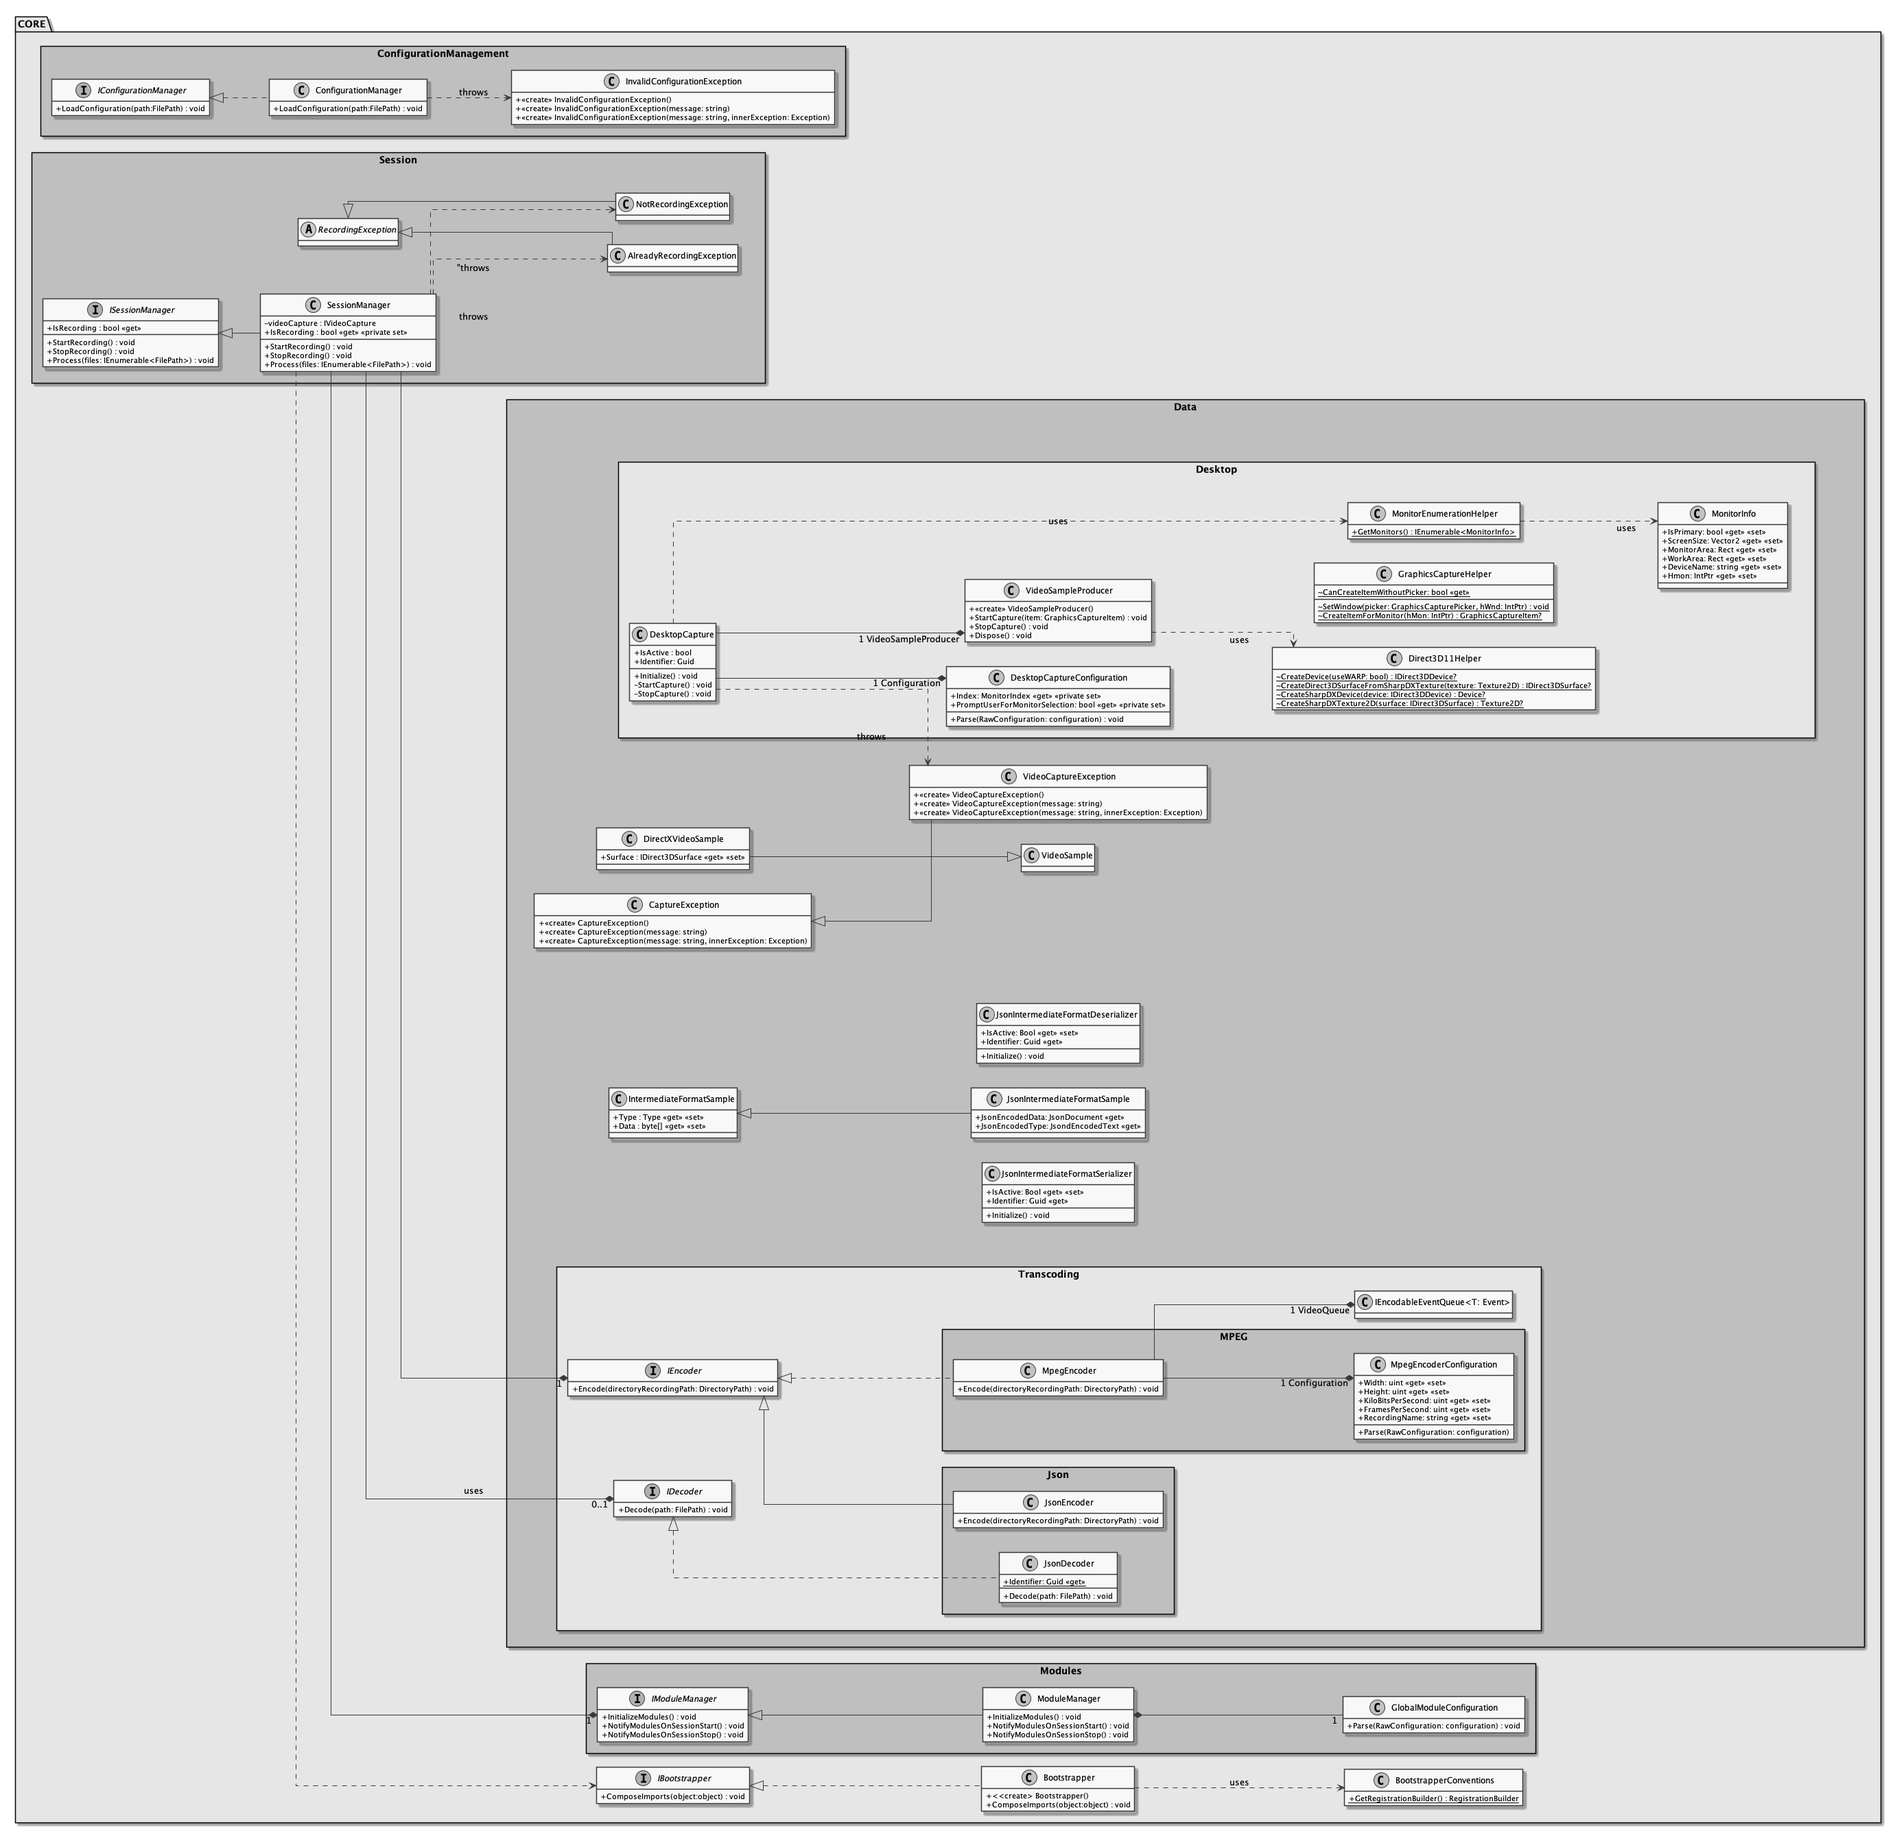
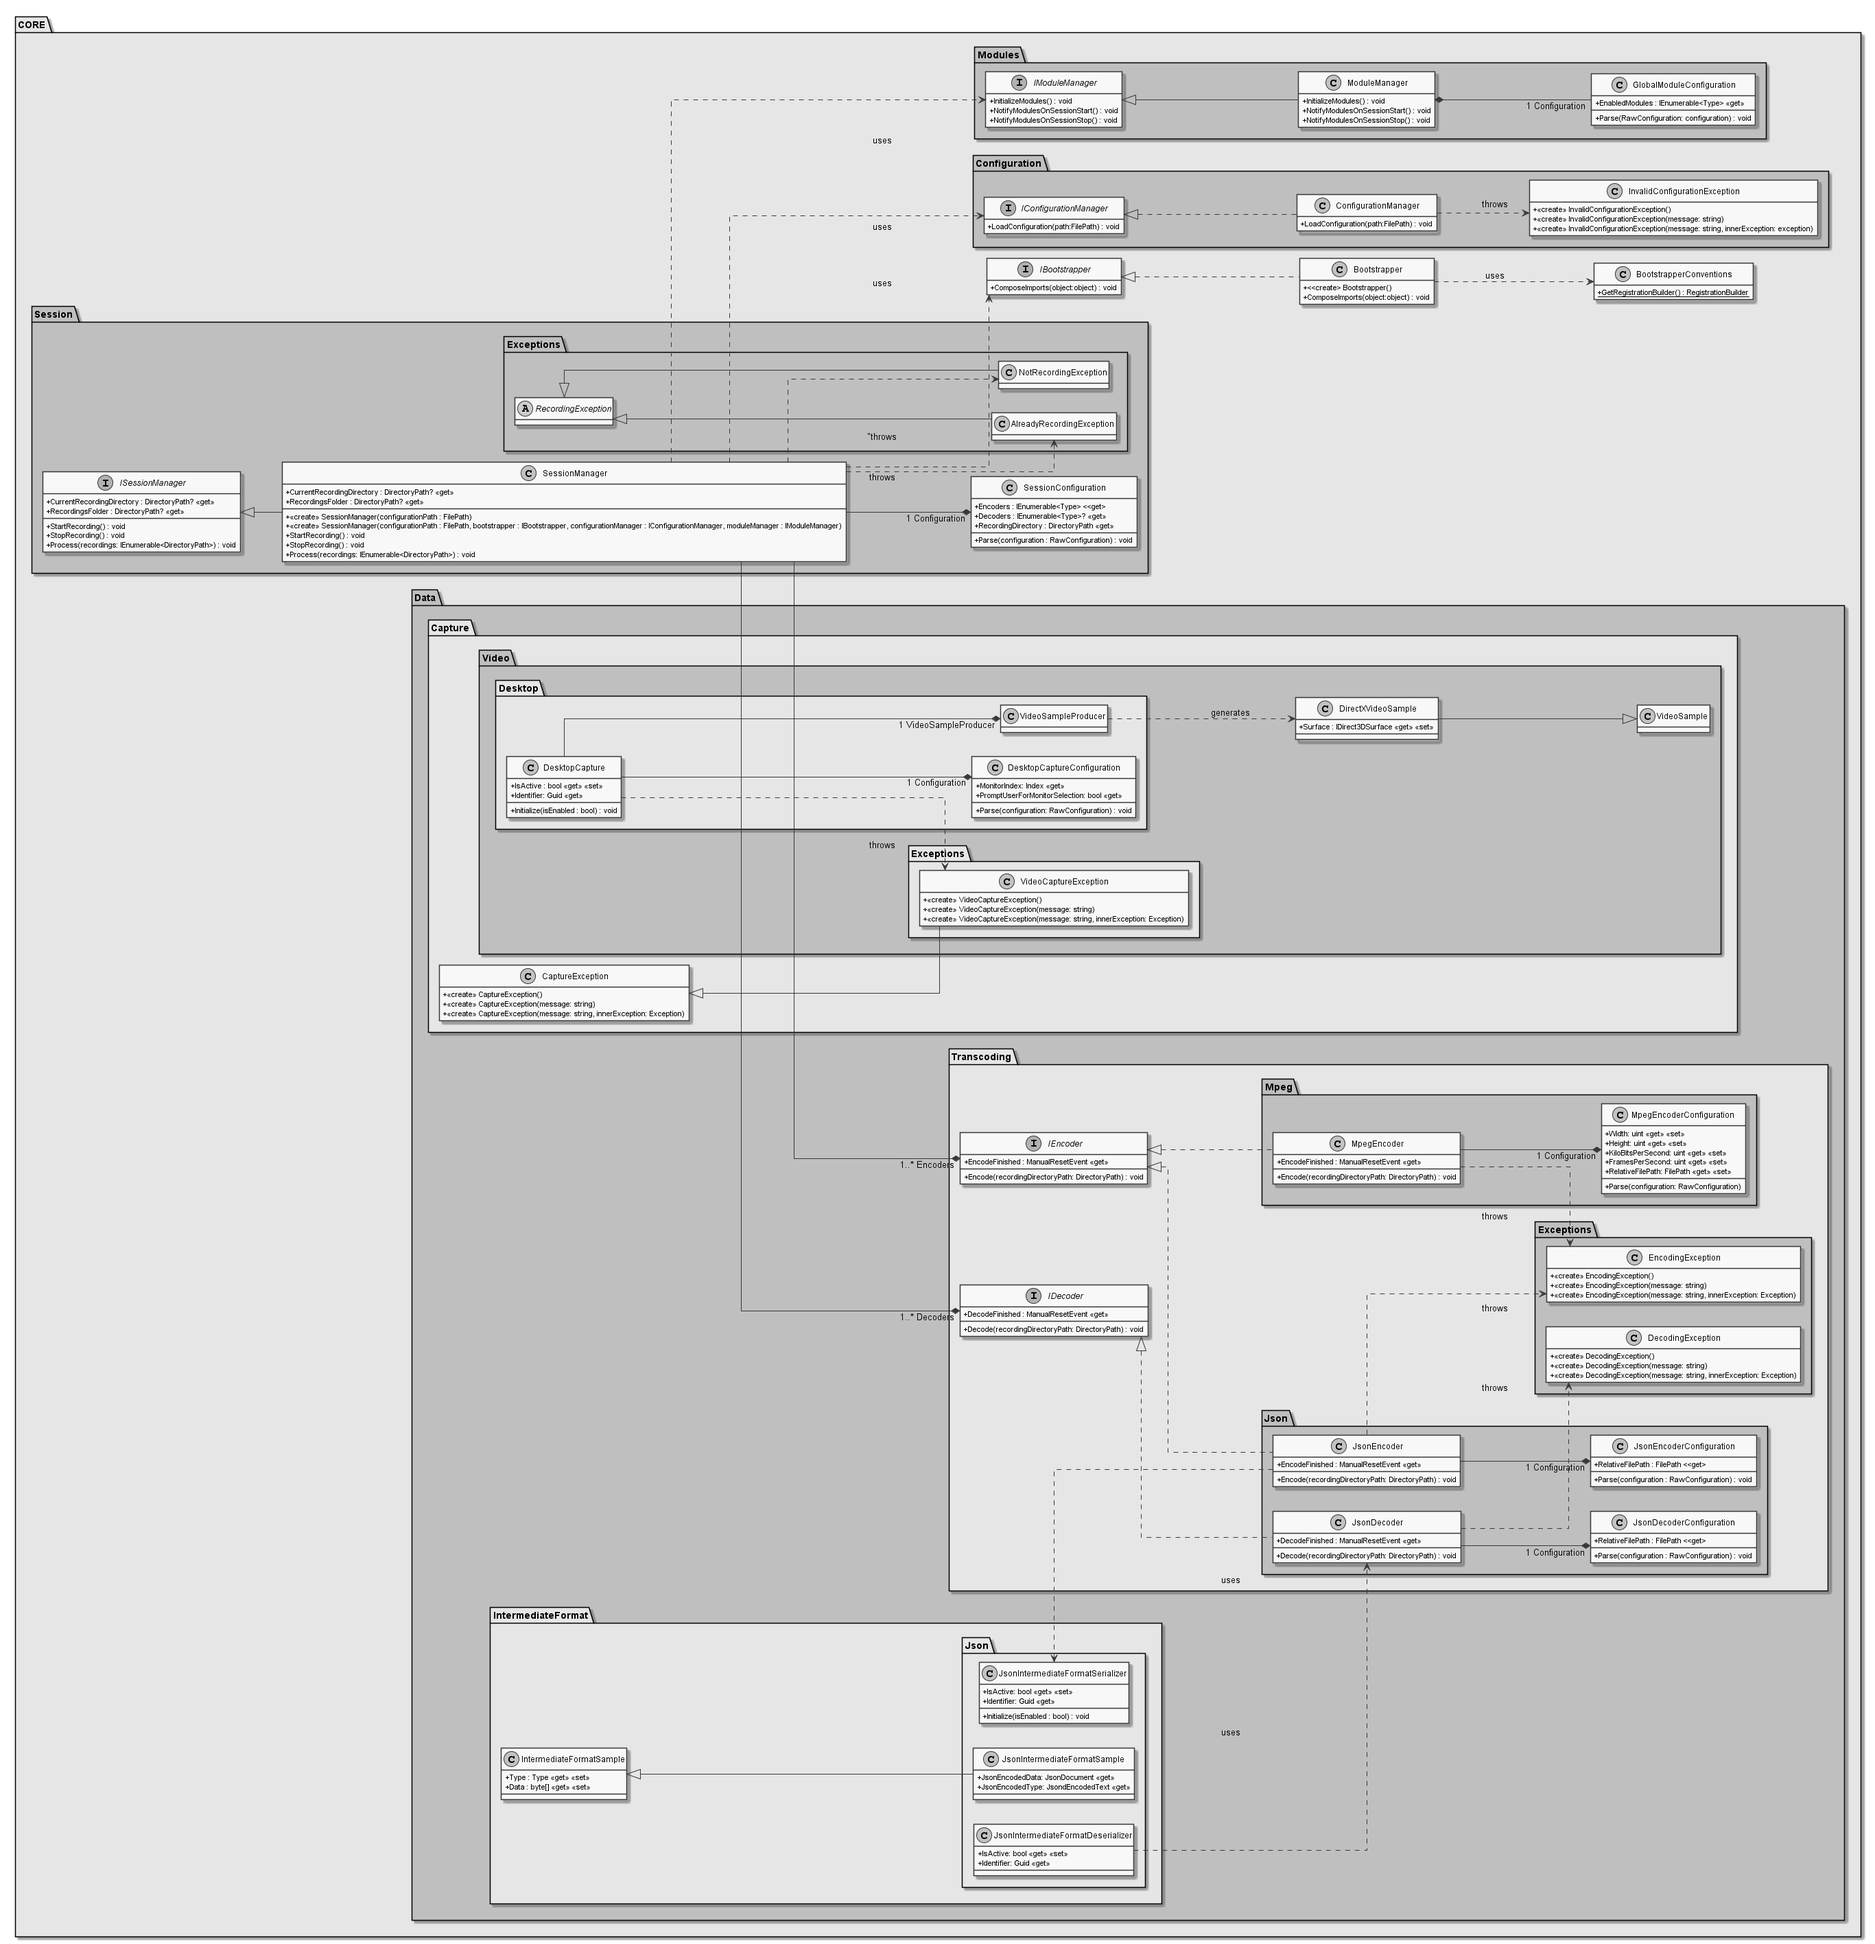
Update Package section for Core

diff --git a/documents/sd/chapter/package.tex b/documents/sd/chapter/package.tex
@@ -36,95 +36,189 @@ The \textbf{MORR} package is the master package containing the whole application
     \includegraphics[width=1.0\textwidth]{resources/Packages/CORE.png}
 \end{center}
 
-The \textbf{CORE} package contains the central initializing logic to be called when the program is started and coordinates state-changes while the application is running.
+The \textbf{CORE} package contains the compositional facilities required for dynamic composition of the application.
 
 \begin{packif}
-\packobj{IModuleManager}
 \packobj{IBootstrapper}
-\packobj{IConfigurationManager}
-\packobj{ISessionManager}
 \end{packif}
 
 \begin{packclass}
-\packobj{SessionManager}
 \packobj{Bootstrapper}
-\packobj{ModuleManager}
+\packobj{BootstrapperConventions}
+\end{packclass}
+
+\begin{packpack}
+\packobj{CONFIGURATION}
+\packobj{DATA}
+\packobj{MODULES}
+\packobj{SESSION}
+\end{packpack}
+
+\section*{MORR.CORE.CONFIGURATION}
+
+The \textbf{CORE.CONFIGURATION} package is responsible for configuration of the application.
+
+\begin{packif}
+\packobj{IConfigurationManager}
+\end{packif}
+
+\begin{packclass}
 \packobj{ConfigurationManager}
-\packobj{RecordingException}
 \packobj{InvalidConfigurationException}
-\packobj{AlreadyRecordingException}
-\packobj{NotRecordingException}
-\packobj{GlobalModuleConfiguration}
 \end{packclass}
 
+\section*{MORR.CORE.DATA}
+
+The \textbf{CORE.DATA} package contains all subpackages responsible for data handling.
+
 \begin{packpack}
-\packobj{TRANSCODING}
 \packobj{CAPTURE}
+\packobj{INTERMEDIATEFORMAT}
+\packobj{TRANSCODING}
 \end{packpack}
 
-\section*{MORR.CORE.TRANSCODING}
+\section*{MORR.CORE.DATA.CAPTURE}
 
-The \textbf{CORE.TRANSCODING} package is responsible for serialization and deserialization of recorded video-, audio- and event-data.
-
-\begin{packif}
-\packobj{IDecoder}
-\packobj{IEncoder}
-\packobj{IMetadataDeserializer}
-\end{packif}
+The \textbf{CORE.DATA.CAPTURE} package is responsible for data capture that does not come from modules.
 
 \begin{packclass}
-\packobj{\abstract{VideoSample}}
-\packobj{\abstract{MetadataSample}}
-\packobj{DecodingException}
-\packobj{EncodingException}
 \packobj{CaptureException}
-\packobj{IntermediateFormatSample}
-\packobj{IntermediateFormatSerializer}
-\packobj{IntermediateFormatDeserializer}
-\packobj{JsonIntermediateFormatSample}
-\packobj{VideoCaptureException}
-\packobj{VideoSample}
-\packobj{MonitorEnumerationHelper}
 \end{packclass}
 
 \begin{packpack}
-\packobj{CSV}
-\packobj{MPEG}
+\packobj{VIDEO}
 \end{packpack}
 
-\section*{MORR.CORE.TRANSCODING.Json}
-The \textbf{CORE.TRANSCODING.Json} package is responsible for providing functionality which allows for encoding of event data to Json format.
+\section*{MORR.CORE.DATA.CAPTURE.VIDEO}
+
+The \textbf{CORE.DATA.CAPTURE.VIDEO} package is responsible for video capture.
 
 \begin{packclass}
-\packobj{JsonEncoder}
-\packobj{JsonDecoder}
+\packobj{DirectXVideoSample}
+\packobj{VideoSample}
 \end{packclass}
 
-\section*{MORR.CORE.TRANSCODING.MPEG}
-The \textbf{CORE.TRANSCODING.MPEG} package allows for storing video-, audio- and event-data in a MPEG container and also retrieving this data again from such a container.
+\begin{packpack}
+\packobj{DESKTOP}
+\packobj{EXCEPTIONS}
+\end{packpack}
+
+\section*{MORR.CORE.DATA.CAPTURE.VIDEO.EXCEPTIONS}
 
 \begin{packclass}
-\packobj{MPEGDecoder}
-\packobj{MPEGDecoderConfiguration}
+\packobj{VideoCaptureException}
 \end{packclass}
 
-\section*{MORR.CORE.CAPTURE}
+\section*{MORR.CORE.DATA.CAPTURE.VIDEO.DESKTOP}
 
-The \textbf{CORE.CAPTURE} package is responsible for capturing and supplying samples to the encoders.
-
-\begin{packif}
-\packobj{IVideoCapture}
-\packobj{IMetadataCapture}
-\end{packif}
+The \textbf{CORE.DATA.CAPTURE.VIDEO.DESKTOP} package is responsible for desktop video capture.
 
 \begin{packclass}
 \packobj{DesktopCapture}
 \packobj{DesktopCaptureConfiguration}
-\packobj{CaptureHelper}
-\packobj{Direct3D11Helper}
-\packobj{DirectXVideoSample}
-\packobj{CaptureException}
-\packobj{VideoCaptureException}
+\packobj{VideoSampleProducer}
+\end{packclass}
+
+\section*{MORR.CORE.DATA.INTERMEDIATEFORMAT}
+
+The \textbf{CORE.DATA.INTERMEDIATEFORMAT} package is responsible for intermediate format representations.
+
+\begin{packclass}
+\packobj{IntermediateFormatSample}
+\end{packclass}
+
+\begin{packpack}
+\packobj{JSON}
+\end{packpack}
+
+\section*{MORR.CORE.DATA.INTERMEDIATEFORMAT.JSON}
+
+The \textbf{CORE.DATA.INTERMEDIATEFORMAT.JSON} package is responsible for JSON intermediate format representations.
+
+\begin{packclass}
+\packobj{JsonIntermediateFormatSample}
+\packobj{JsonIntermediateFormatSerializer}
+\packobj{JsonIntermediateFormatDeserializer}
+\end{packclass}
+
+\section*{MORR.CORE.DATA.TRANSCODING}
+
+The \textbf{CORE.DATA.TRANSCODING} package is responsible for transcoding.
+
+\begin{packif}
+\packobj{IDecoder}
+\packobj{IEncoder}
+\end{packif}
+
+\begin{packpack}
+    \packobj{EXCEPTIONS}
+    \packobj{JSON}
+    \packobj{MPEG}
+\end{packpack}
+
+\section*{MORR.CORE.DATA.TRANSCODING.EXCEPTIONS}
+
+\begin{packclass}
+\packobj{DecodingException}
+\packobj{EncodingException}
+\end{packclass}
+
+\section*{MORR.CORE.DATA.TRANSCODING.JSON}
+
+The \textbf{CORE.DATA.TRANSCODING.JSON} package is responsible for JSON format transcoding.
+
+\begin{packclass}
+    \packobj{JsonDecoder}
+    \packobj{JsonDecoderConfiguration}
+    \packobj{JsonEncoder}
+    \packobj{JsonEncoderConfiguration}
+\end{packclass}
+
+\section*{MORR.CORE.DATA.TRANSCODING.MPEG}
+
+The \textbf{CORE.DATA.TRANSCODING.MPEG} package is responsible for MPEG format transcoding.
+
+\begin{packclass}
+    \packobj{MpegEncoder}
+    \packobj{MpegEncoderConfiguration}
+\end{packclass}
+
+\section*{MORR.CORE.MODULES}
+
+The \textbf{CORE.MODULES} package is responsible for module management.
+
+\begin{packif}
+\packobj{IModuleManager}
+\end{packif}
+
+\begin{packclass}
+\packobj{GlobalModuleConfiguration}
+\packobj{ModuleManager}
+\end{packclass}
+
+\section*{MORR.CORE.SESSION}
+
+The \textbf{CORE.SESSION} package is responsible for session management.
+
+\begin{packif}
+\packobj{ISessionManager}
+\end{packif}
+
+\begin{packclass}
+\packobj{SessionConfiguration}
+\packobj{SessionManager}
+\end{packclass}
+
+\begin{packpack}
+\packobj{EXCEPTIONS}
+\end{packpack}
+
+\section*{MORR.CORE.SESSION.EXCEPTIONS}
+
+\begin{packclass}
+\packobj{AlreadyRecordingException}
+\packobj{NotRecordingException}
+\packobj{RecordingException}
 \end{packclass}
 
 \newpage
